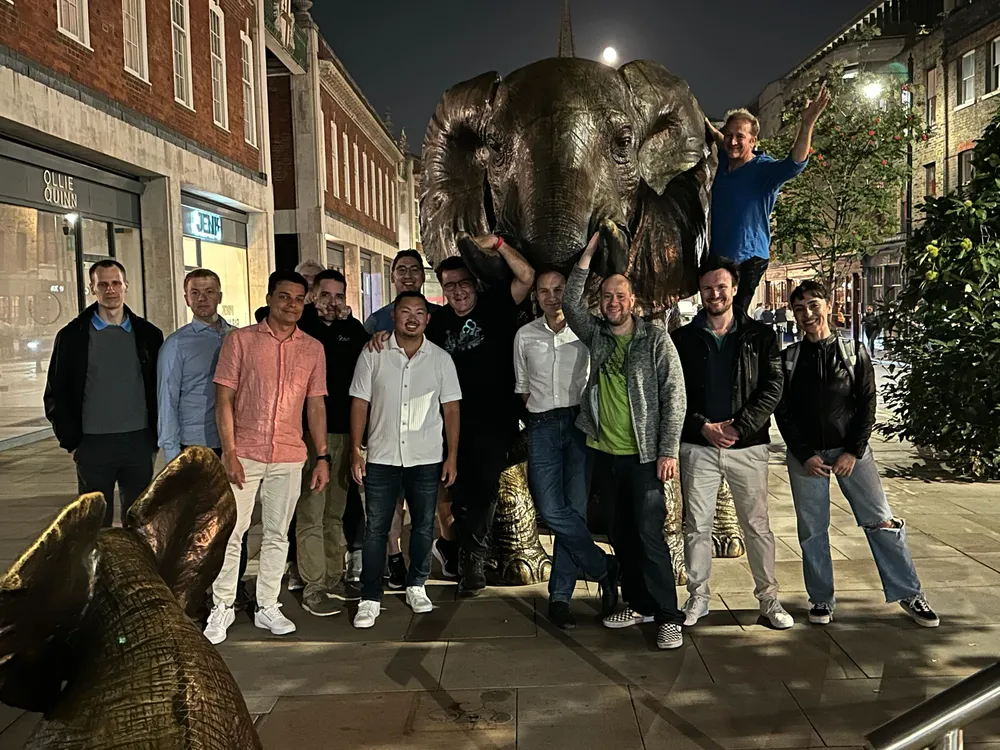
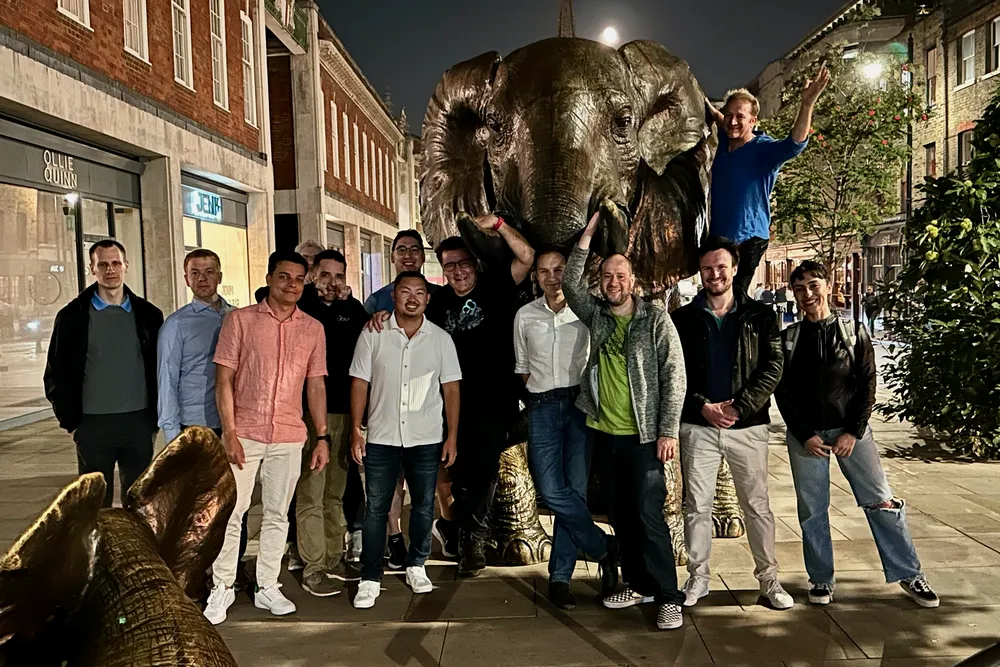
edit edb photo

diff --git a/_top_portfolio.html b/_top_portfolio.html
@@ -37,9 +37,6 @@
         efficiency.
       </li>
     </ul>
-    <div class="portfolio_more">
-      <a href="portfolio-enterprisedb.html">Read more →</a>
-    </div>
   </div>
 </div>
 <hr class="desktop_only" />
